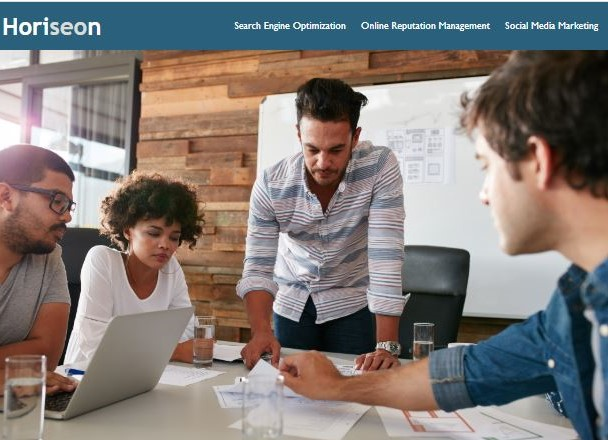
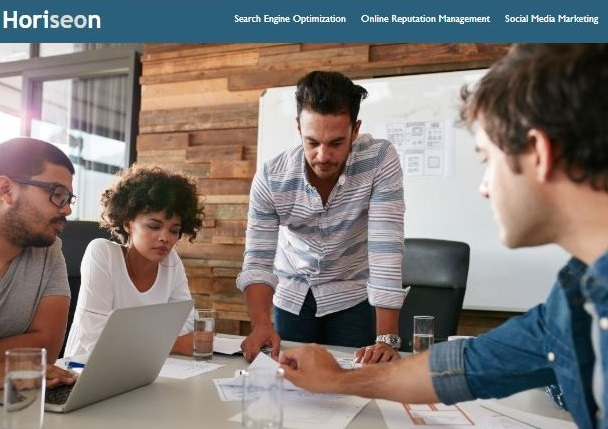
Updated  file  structure

diff --git a/index.html b/index.html
@@ -4,7 +4,7 @@
 <head>
     <meta charset="UTF-8" />
     <title>Portfolio: 3001</title>
-    <link rel="stylesheet" href="css/style.css" />
+    <link rel="stylesheet" href="assets/css/style.css" />
     <meta name="viewport" content="width=device-width, initial-scale=1.0" />
     <link href="https://fonts.googleapis.com/css2?family=Raleway:wght@300;400;500;600;700&display=swap"
         rel="stylesheet">
@@ -68,7 +68,7 @@
                     <div class="portfolio-grid-container">
                         <div class="portfolio-grid-item impact">
                             <a href="#">
-                                <img src="images/SpeakEasy.png" alt="The Speakeasy">
+                                <img src="assets/images/SpeakEasy.png" alt="The Speakeasy">
                                 <div class="portfolio-text">
                                     The Speakeasy
                                 </div>
@@ -77,7 +77,7 @@
 
                         <div class="portfolio-grid-item project">
                             <a href="#">
-                                <img src="images/digitization-5194815_1920.jpg" alt="Placeholder">
+                                <img src="assets/images/digitization-5194815_1920.jpg" alt="Placeholder">
                                 <div class="portfolio-text">
                                     Placeholder
                                 </div>
@@ -86,7 +86,7 @@
 
                         <div class="portfolio-grid-item project">
                             <a href="#">
-                                <img src="images/ball-63527_1920.jpg" alt="Placeholder">
+                                <img src="assets/images/ball-63527_1920.jpg" alt="Placeholder">
                                 <div class="portfolio-text">
                                     Placeholder
                                 </div>
@@ -95,7 +95,7 @@
 
                         <div class="portfolio-grid-item project">
                             <a href="#">
-                                <img src="images/Horiseon.jpg" alt="Horiseon">
+                                <img src="assets/images/Horiseon.jpg" alt="Horiseon">
                                 <div class="portfolio-text">
                                     Horiseon
                                 </div>
@@ -104,7 +104,7 @@
 
                         <div class="portfolio-grid-item project">
                             <a href="#">
-                                <img src="images/runbuddy.jpg" alt="Run Buddy">
+                                <img src="assets/images/runbuddy.jpg" alt="Run Buddy">
                                 <div class="portfolio-text">
                                     Run Buddy
                                 </div>
